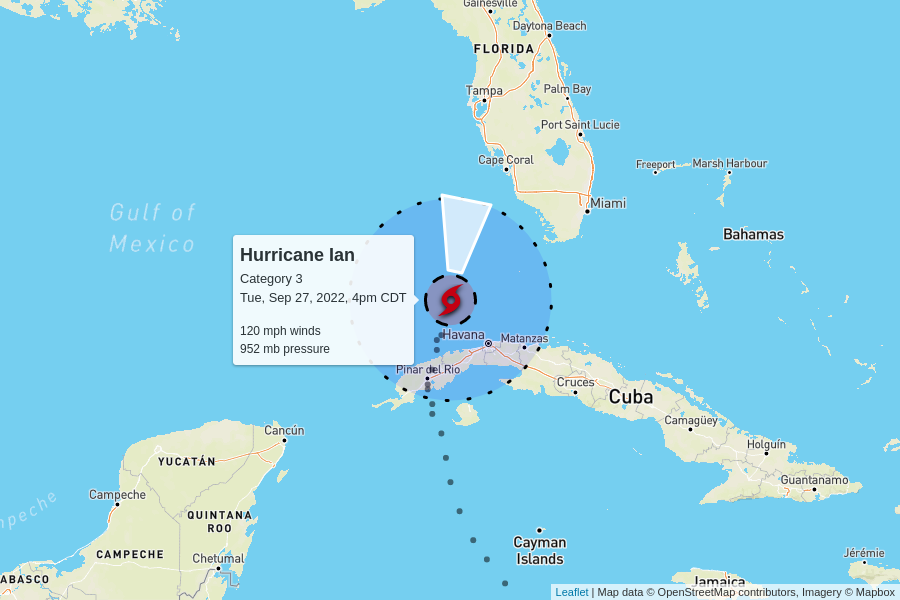
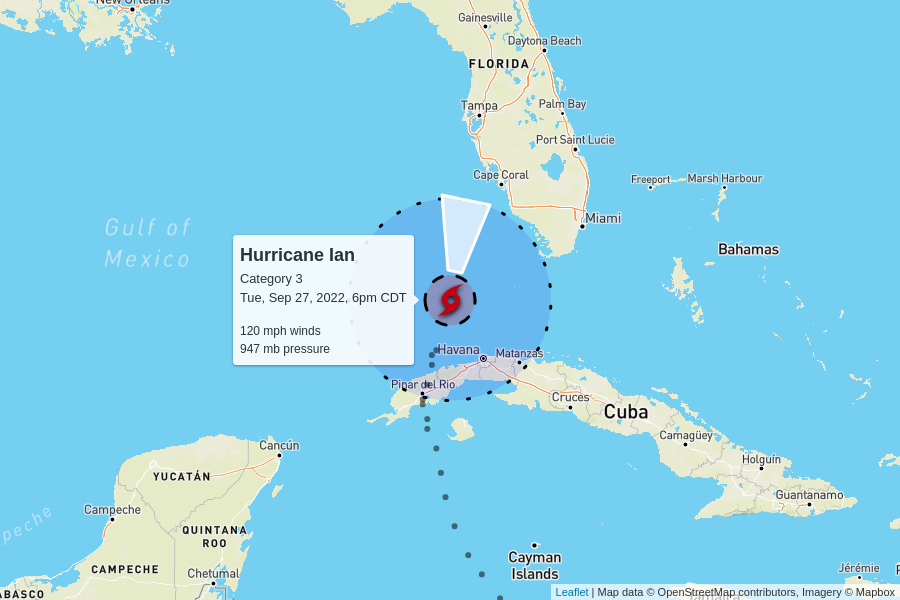
automatic update

diff --git a/docs/index.html b/docs/index.html
@@ -100,7 +100,7 @@
         <td colspan="6" class="storm category-3" >
           <h2>
             Hurricane Ian - Category 3
-            <p class="updated">last updated <span data-time>2022-09-27T21:00:00.000Z</span></p>
+            <p class="updated">last updated <span data-time>2022-09-27T23:00:00.000Z</span></p>
           </h2>
         </td>
       </tr>
@@ -116,7 +116,7 @@
       <tr>
         <td class="spacer"></td>
         <td>120 mph</td>
-        <td>952 mb</td>
+        <td>947 mb</td>
         <td>
           10 mph to the north
           <br/>
